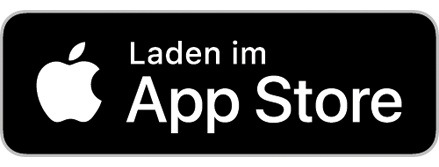
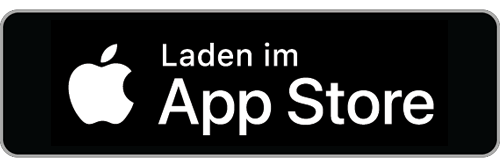
Fix width of app store image

Changed region(s): [[0.0592, 0.2395, 0.918, 0.8084], [0.0, 0.0299, 1.0, 0.9581], [0.2961, 0.2395, 0.6219, 0.4192]]

diff --git a/pages/app.vue b/pages/app.vue
@@ -9,8 +9,8 @@
           Die neusten Informationen, alle Spielzeiten auf einen Blick, eine interaktive Karte, Benachrichtigungen für deine Lieblingsvereine und vieles mehr!
         </p>
         <div class="flex flex-row gap-3 flex-wrap">
-          <NuxtImg src="/app/google-play.png" quality="90" class="m-0 w-[150px] max-w-full opacity-20 cursor-not-allowed"></NuxtImg>
-          <NuxtImg src="/app/app-store.png" quality="90" class="m-0 w-[150px] max-w-full opacity-20 cursor-not-allowed"></NuxtImg>
+          <NuxtImg src="/app/google-play.png" quality="90" class="m-0 w-[170px] max-w-full opacity-20 cursor-not-allowed object-scale-down"></NuxtImg>
+          <NuxtImg src="/app/app-store.png" quality="90" class="m-0 w-[170px] max-w-full opacity-20 cursor-not-allowed object-scale-down"></NuxtImg>
         </div>
       </div>
     </div>
